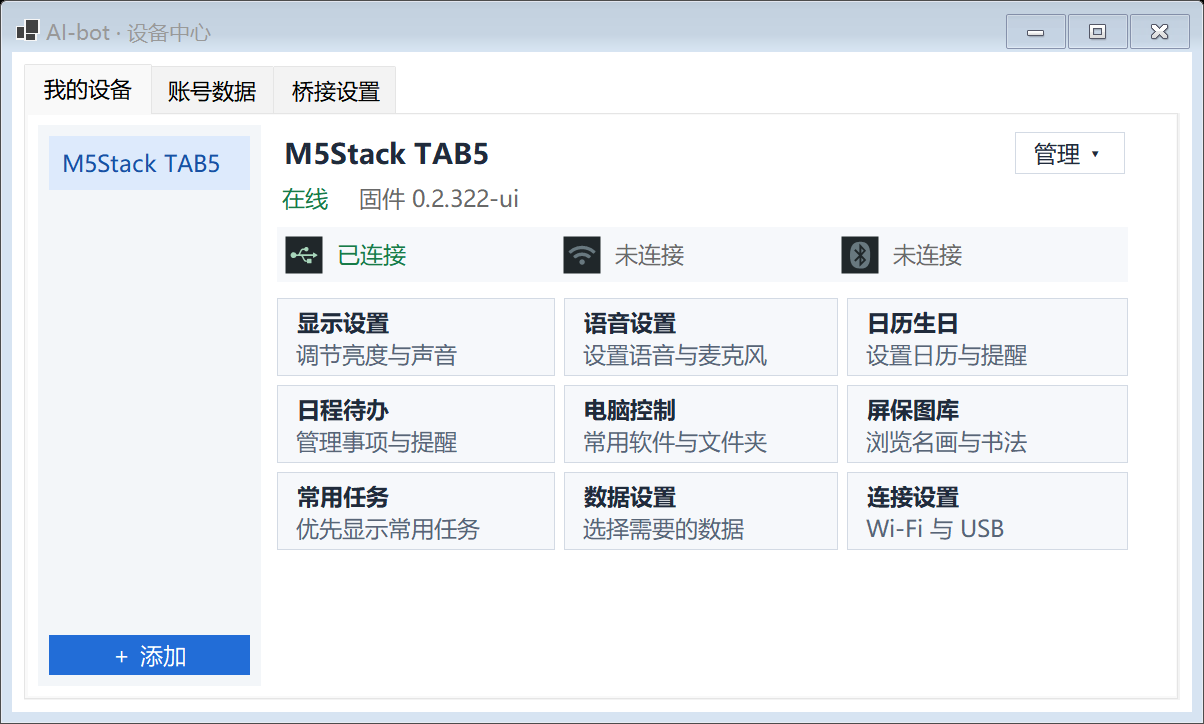
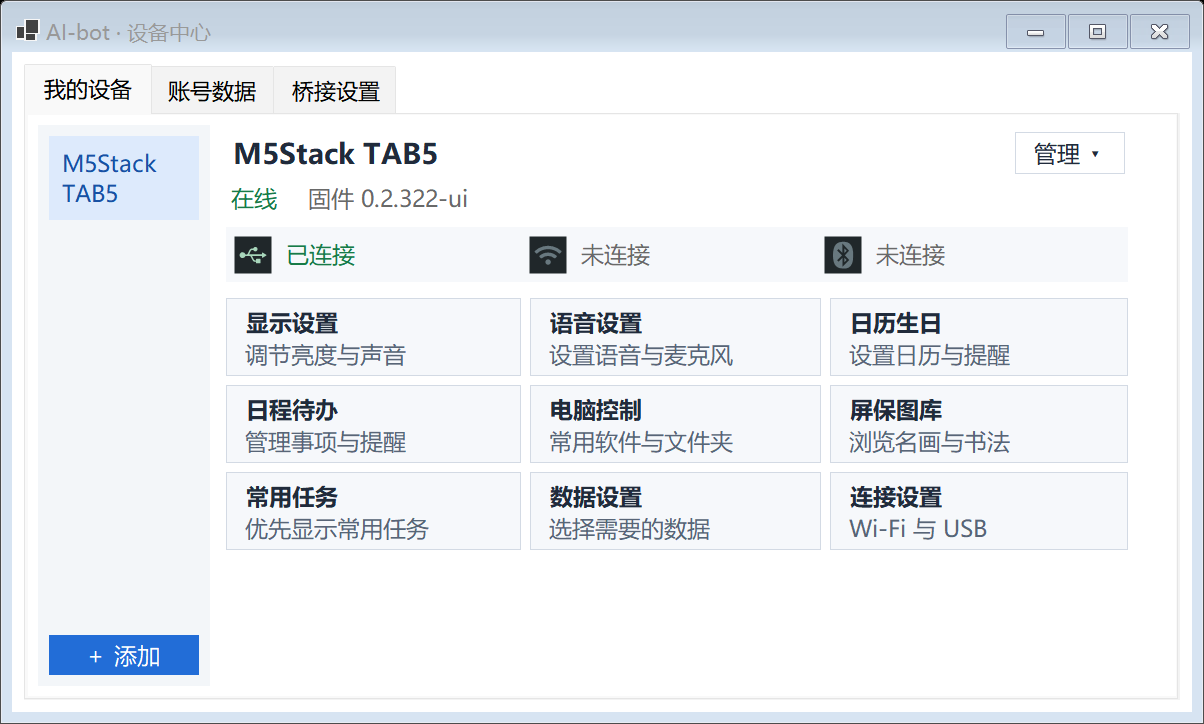
Make the first-device entry self-explanatory

diff --git a/windows-app/AIBotBridge/AddDeviceForm.cs b/windows-app/AIBotBridge/AddDeviceForm.cs
@@ -30,8 +30,8 @@ internal sealed class AddDeviceForm : Form
             AcceptButton=close;CancelButton=close;SettingsWindow.FitScreen(this);ResumeLayout(true);return;
         }
         Controls.Remove(panel);panel.Padding=panel.Margin=Padding.Empty;
-        var layout=new TableLayoutPanel{Dock=DockStyle.Fill,ColumnCount=1,RowCount=4,Padding=new Padding(20)};
-        layout.ColumnStyles.Add(new(SizeType.Percent,100));layout.RowStyles.Add(new(SizeType.Percent,100));layout.RowStyles.Add(new(SizeType.AutoSize));layout.RowStyles.Add(new(SizeType.AutoSize));layout.RowStyles.Add(new(SizeType.AutoSize));
+        var layout=new TableLayoutPanel{Dock=DockStyle.Fill,ColumnCount=1,RowCount=2,Padding=new Padding(20)};
+        layout.ColumnStyles.Add(new(SizeType.Percent,100));layout.RowStyles.Add(new(SizeType.Percent,100));layout.RowStyles.Add(new(SizeType.AutoSize));
         Controls.Add(layout);layout.Controls.Add(panel,0,0);
         panel.Controls.Add(new Label{Text="用 USB 数据线连接设备，再选择型号。",AutoSize=true,ForeColor=SettingsWindow.Muted,Margin=new(0,4,0,8)});
         kind.Items.AddRange(choices.Cast<object>().ToArray());kind.SelectedIndex=0;
@@ -42,7 +42,8 @@ internal sealed class AddDeviceForm : Form
         var ports=new ComboBox{Name="add-device-ports",DropDownStyle=ComboBoxStyle.DropDownList,DisplayMember="Name",Anchor=AnchorStyles.Left|AnchorStyles.Right,Margin=Padding.Empty};
         var portRow=new TableLayoutPanel{AutoSize=true,ColumnCount=2,RowCount=1,Margin=Padding.Empty};
         portRow.ColumnStyles.Add(new(SizeType.Percent,100));portRow.ColumnStyles.Add(new(SizeType.AutoSize));portRow.RowStyles.Add(new(SizeType.AutoSize));portRow.Controls.Add(ports,0,0);Field("USB 设备",portRow);
-        var status=new Label{Name="add-device-status",AutoSize=true,Dock=DockStyle.Fill,ForeColor=SettingsWindow.Muted,Margin=new(0,8,0,4)};
+        var status=new Label{Name="add-device-status",AutoSize=true,Visible=false,ForeColor=SettingsWindow.Muted,Margin=new(0,8,0,4)};
+        status.TextChanged+=(_,_)=>status.Visible=status.Text.Length>0;
         var add=DeviceCenterForm.Button("验证并添加",()=>{},true);add.Name="verify-add-device";
         string? verifiedBootIdentity=null;
         void Refresh(){
@@ -57,7 +58,7 @@ internal sealed class AddDeviceForm : Form
                 if(verifiedBootIdentity is not null)
                     status.Text=previous>=0?"启动检查通过。请点「验证并添加」。":"启动检查通过。请重新连接刚安装的 TAB5，再点「刷新设备」。";
                 else status.Text=devices.Length==0?"未找到 USB 设备。请接好数据线，再点「刷新设备」。":
-                    ports.SelectedItem is null?"请选择这台设备的 USB 端口。不确定时可拔插后刷新。":"已选中 USB 设备。";
+                    ports.SelectedItem is null?"请选择这台设备的 USB 端口。不确定时可拔插后刷新。":"";
             }catch(Exception ex){ports.DataSource=Array.Empty<FlashUsbDevice>();status.Text="扫描失败，请重试："+ex.Message;}
             add.Enabled=ports.SelectedItem is FlashUsbDevice;
         }
@@ -77,28 +78,27 @@ internal sealed class AddDeviceForm : Form
             }
             Refresh();
         }catch(Exception ex){status.Text=ex.Message;}};
-        var routes=new TableLayoutPanel{AutoSize=true,Dock=DockStyle.Fill,ColumnCount=2,RowCount=4,Margin=new(0,12,0,0)};
+        var routes=new TableLayoutPanel{AutoSize=true,Dock=DockStyle.Fill,ColumnCount=2,RowCount=3,Margin=new(0,12,0,0)};
         routes.ColumnStyles.Add(new(SizeType.Percent,50));routes.ColumnStyles.Add(new(SizeType.Percent,50));
         for(int row=0;row<routes.RowCount;row++)routes.RowStyles.Add(new(SizeType.AutoSize));
-        var next=new Label{Text="看设备屏幕，选择下一步",AutoSize=true,Font=SettingsWindow.SectionFont(),Margin=new(0,0,0,12)};
+        var next=new Label{Text="设备屏幕上有 AI-bot 吗？",AutoSize=true,Font=SettingsWindow.SectionFont(),Margin=new(0,0,0,12)};
         routes.Controls.Add(next,0,0);routes.SetColumnSpan(next,2);
-        foreach(var (column,title,help,button) in new[]{
-            (0,"屏幕已显示 AI-bot","验证 USB 设备并添加。",add),
-            (1,"设备还是出厂状态","先备份和刷机，重启后再添加。",install)}){
-            routes.Controls.Add(new Label{Text=title,AutoSize=true,Font=SettingsWindow.SectionFont(),Margin=new(0,0,12,4)},column,1);
-            routes.Controls.Add(new Label{Text=help,AutoSize=true,ForeColor=SettingsWindow.Muted,Margin=new(0,0,12,8)},column,2);
-            button.Anchor=AnchorStyles.Left;button.Margin=new(0,0,12,0);routes.Controls.Add(button,column,3);
+        foreach(var (column,title,button) in new[]{
+            (0,"有，显示 AI-bot",add),
+            (1,"没有显示 AI-bot",install)}){
+            routes.Controls.Add(new Label{Text=title,AutoSize=true,ForeColor=SettingsWindow.Muted,Margin=new(0,0,12,8)},column,1);
+            button.Anchor=AnchorStyles.Left;button.Margin=new(0,0,12,0);routes.Controls.Add(button,column,2);
         }
-        layout.Controls.Add(status,0,1);
-        layout.Controls.Add(routes,0,2);
+        panel.Controls.Add(status);
+        panel.Controls.Add(routes);
         var guide=new LinkLabel{Text="首次添加图文指南与固件下载",AutoSize=true,Margin=new(0,12,0,8)};
         guide.LinkClicked+=(_,_)=>{try{System.Diagnostics.Process.Start(new System.Diagnostics.ProcessStartInfo("https://github.com/yaoyouzhong/AI-bot/blob/main/docs/FIRST-INSTALL.zh.md#windows-first-device"){UseShellExecute=true});}catch(Exception ex){status.Text="无法打开安装指南："+ex.Message;}};
         var actionsFooter=new TableLayoutPanel{AutoSize=true,Dock=DockStyle.Fill,ColumnCount=2,RowCount=1,Margin=Padding.Empty};
         actionsFooter.Margin=new(0,12,0,0);
         actionsFooter.ColumnStyles.Add(new(SizeType.Percent,100));actionsFooter.ColumnStyles.Add(new(SizeType.AutoSize));actionsFooter.RowStyles.Add(new(SizeType.AutoSize));
         guide.Anchor=AnchorStyles.Left;guide.Margin=Padding.Empty;actionsFooter.Controls.Add(guide,0,0);
-        var closeButton=DeviceCenterForm.Button("关闭",()=>Close());closeButton.Anchor=AnchorStyles.Right;actionsFooter.Controls.Add(closeButton,1,0);layout.Controls.Add(actionsFooter,0,3);CancelButton=closeButton;
-        ports.SelectedIndexChanged+=(_,_)=>{add.Enabled=!_busy&&ports.SelectedItem is FlashUsbDevice;if(add.Enabled)status.Text="已选择 USB 设备。";};
+        var closeButton=DeviceCenterForm.Button("关闭",()=>Close());closeButton.Anchor=AnchorStyles.Right;actionsFooter.Controls.Add(closeButton,1,0);layout.Controls.Add(actionsFooter,0,1);CancelButton=closeButton;
+        ports.SelectedIndexChanged+=(_,_)=>{add.Enabled=!_busy&&ports.SelectedItem is FlashUsbDevice;if(add.Enabled)status.Text="";};
         ports.SelectionChangeCommitted+=(_,_)=>verifiedBootIdentity=null;
         kind.SelectedIndexChanged+=(_,_)=>{verifiedBootIdentity=null;install.Text=((Choice)kind.SelectedItem!).Kind==HardwareKind.Tab5?"TAB5 首次安装…":"ESP8266 首次安装…";Refresh();};
         async Task AddAsync(FlashUsbDevice device,UsbDeviceInfo? verifiedEsp=null) {

diff --git a/windows-app/AIBotBridge/DeviceCenterForm.cs b/windows-app/AIBotBridge/DeviceCenterForm.cs
@@ -18,6 +18,7 @@ internal sealed class DeviceCenterForm : Form
     private readonly TabControl _pages=new(){Dock=DockStyle.Fill,Padding=new(18,9)};
     private readonly ListBox _list=new(){Dock=DockStyle.Fill,DisplayMember="Name",IntegralHeight=false,BorderStyle=BorderStyle.None,DrawMode=DrawMode.OwnerDrawFixed,ItemHeight=36};
     private readonly TableLayoutPanel _deviceLayout=new(){Dock=DockStyle.Fill,ColumnCount=2,RowCount=1,Margin=Padding.Empty};
+    private readonly TableLayoutPanel _deviceSidebar=new(){Dock=DockStyle.Fill,ColumnCount=1,RowCount=2,Padding=new Padding(8),BackColor=Color.FromArgb(243,246,249),Margin=new Padding(0,0,12,0)};
     private readonly FlowLayoutPanel _detail=Column();
     private readonly FlowLayoutPanel _accounts=Column();
     private readonly FlowLayoutPanel _bridge=Column();
@@ -52,7 +53,7 @@ internal sealed class DeviceCenterForm : Form
         body.ColumnStyles.Add(new(SizeType.Percent,100));body.RowStyles.Add(new(SizeType.Percent,100));body.RowStyles.Add(new(SizeType.AutoSize));
         var split=_deviceLayout;
         split.ColumnStyles.Add(new(SizeType.Absolute,184));split.ColumnStyles.Add(new(SizeType.Percent,100));split.RowStyles.Add(new(SizeType.Percent,100));
-        var sidebar=new TableLayoutPanel{Dock=DockStyle.Fill,ColumnCount=1,RowCount=2,Padding=new Padding(8),BackColor=Color.FromArgb(243,246,249),Margin=new Padding(0,0,12,0)};
+        var sidebar=_deviceSidebar;
         sidebar.ColumnStyles.Add(new(SizeType.Percent,100));sidebar.RowStyles.Add(new(SizeType.Percent,100));sidebar.RowStyles.Add(new(SizeType.AutoSize));
         _list.BackColor=sidebar.BackColor;sidebar.Controls.Add(_list,0,0);
         _addButton=Button("＋ 添加",_add,true);_addButton.Name="add-device";_addButton.Dock=DockStyle.Fill;sidebar.Controls.Add(_addButton,0,1);
@@ -89,11 +90,14 @@ internal sealed class DeviceCenterForm : Form
         Render();RenderShared();RenderLegacy();
     }
     private void Render() {
+        bool hasDevices=_list.Items.Count>0;
+        _deviceSidebar.Visible=hasDevices;
+        if(!hasDevices)_deviceLayout.ColumnStyles[0].Width=0;
+        else if(_deviceLayout.ColumnStyles[0].Width==0)_deviceLayout.ColumnStyles[0].Width=184;
         _detail.SuspendLayout();_detail.Controls.Remove(_health);_detail.Controls.Remove(_connection);_detail.Controls.Remove(_transport);Clear(_detail);_actions.Clear();_manage.Items.Clear();
         if(Selected is not { } d) {
-            Heading(_detail,"连接第一台设备");Note(_detail,"先用 USB 数据线把 TAB5 或 ESP8266 小屏接到电脑。");
+            Heading(_detail,"连接第一台设备");Note(_detail,"用 USB 数据线把设备接到电脑。");
             _detail.Controls.Add(Button("添加第一台设备",_add,true));
-            Note(_detail,"看设备屏幕选择下一步。屏幕已显示 AI-bot 就直接添加。\n出厂设备要先备份并安装 AI-bot 固件。");
         } else {
             var heading=new TableLayoutPanel{AutoSize=true,ColumnCount=2,RowCount=1,Margin=new Padding(0,0,0,6)};
             heading.ColumnStyles.Add(new(SizeType.Percent,100));heading.ColumnStyles.Add(new(SizeType.AutoSize));heading.RowStyles.Add(new(SizeType.AutoSize));

diff --git a/windows-app/AIBotBridge/DeviceCenterSelfTest.cs b/windows-app/AIBotBridge/DeviceCenterSelfTest.cs
@@ -199,11 +199,16 @@ internal static class DeviceCenterSelfTest
         using var center=new DeviceCenterForm(store,_=>new(true,"在线","当前通道：USB","0.2.322-ui",Usb:"已连接",Wifi:"未连接",Bluetooth:"未连接",Transport:"USB"),(_,_)=>{},(_,_)=>Task.CompletedTask,()=>addRequested=true,_=>{});
         Capture(center,directory,"first-device-start");
         center.Show();Application.DoEvents();
+        Check(!Descendants(center).Single(c=>c.Name=="add-device").Visible,"The empty device center should show one Add action");
+        Check(!Descendants(center).OfType<Label>().Any(l=>l.Visible&&l.Text.Contains("固件",StringComparison.Ordinal)),
+            "The empty device center should guide connection without asking users to identify firmware");
         Descendants(center).OfType<Button>().Single(b=>b.Text=="添加第一台设备").PerformClick();
         Check(addRequested,"The empty device center did not open the first-device action");
         var added=DeviceRegistryStore.Create(HardwareKind.Tab5,DeviceRegistryStore.Model(HardwareKind.Tab5),"001122aabbcc");
         store.Add(added);center.Reload();center.SelectDevice(added.Id);
         Capture(center,directory,"first-device-added");
+        center.Show();Application.DoEvents();
+        Check(Descendants(center).Single(c=>c.Name=="add-device").Visible,"The populated device list should restore Add");
         Console.WriteLine("ONBOARDING_OK selection/reconnect/scan-failure/caller-return/layout; isolated UI, no hardware pairing");
     }
     private static void CheckAddDiscovery(string directory) {

diff --git a/docs/FIRST-INSTALL.zh.md b/docs/FIRST-INSTALL.zh.md
@@ -30,11 +30,11 @@
 
 1. **接好 USB 数据线，点「添加第一台设备」。** 第一次启动时，按钮就在设备中心的「我的设备」页。已添加过设备时，用左下角「＋ 添加」。
 
-   ![Windows 设备中心空白页，右侧显示「添加第一台设备」](assets/screens/first-device-start.png)
+   ![Windows 设备中心首次打开时，显示 USB 接线提示和「添加第一台设备」](assets/screens/first-device-start.png)
 
-2. **选择设备型号，再看设备屏幕选路。** 如果屏幕已显示 AI-bot，点「验证并添加」。当列表只有一个可选 USB 设备时，程序会先选中它，确认是自己的设备即可。设备还在出厂状态时，点右侧对应型号的「首次安装…」。出厂固件需要先刷入 AI-bot，重启后才能验证并添加。
+2. **选择设备型号，回答「设备屏幕上有 AI-bot 吗？」** 有就点 **验证并添加**；没有就点对应型号的 **首次安装…**。只有一个可选 USB 设备时，程序会自动选中。
 
-   ![Windows 添加窗口，左侧是「验证并添加」，右侧是「TAB5 首次安装」](assets/screens/add-device.png)
+   ![Windows 添加窗口根据设备屏幕是否显示 AI-bot 给出两个入口](assets/screens/add-device.png)
 
    USB 列表为空时，检查数据线和接口，再点「刷新设备」。有多个端口时，拔插自己的设备并刷新，核对出现的端口。出厂设备可以直接打开首次安装窗口，按里面的步骤接线或进入下载模式。
 
